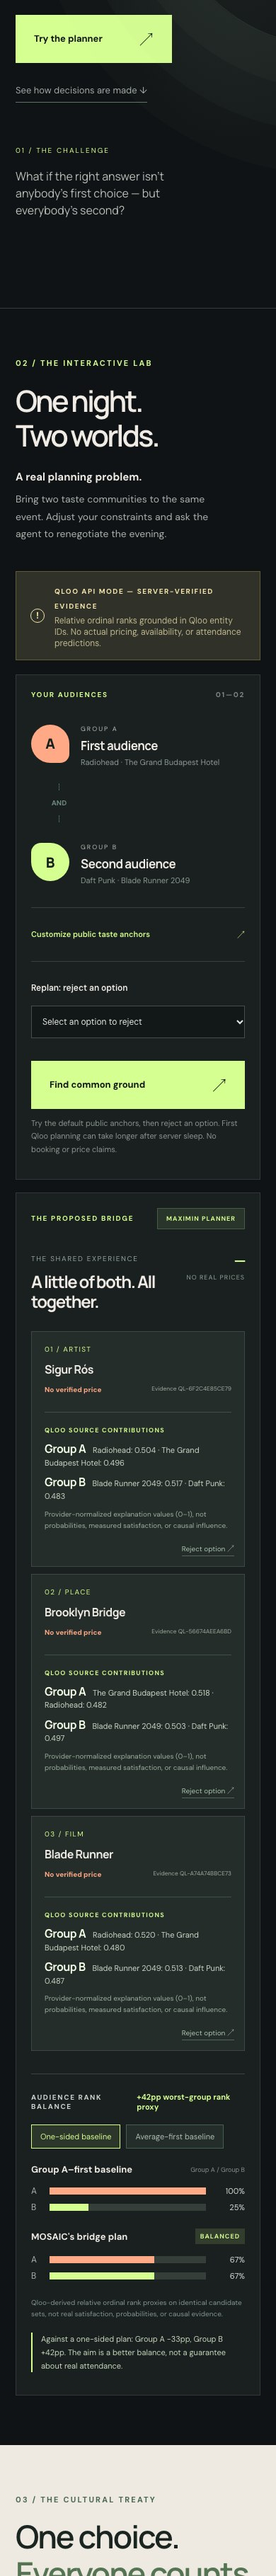
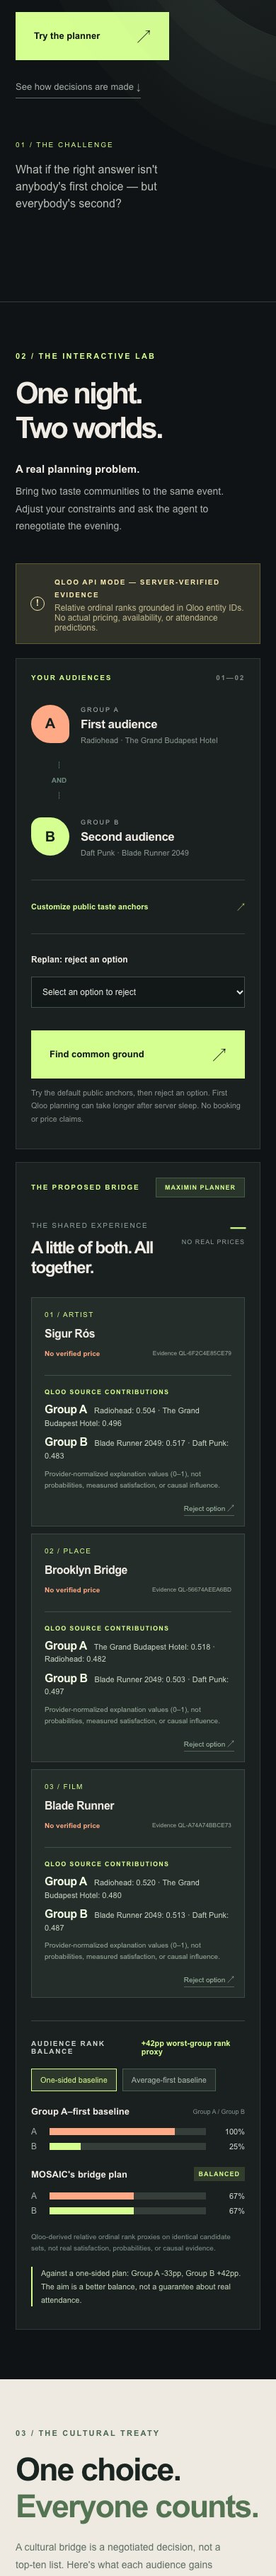
docs(qloo): record verified live judge release and production screenshots

diff --git a/docs/JUDGE_RELEASE_GATE.md b/docs/JUDGE_RELEASE_GATE.md
@@ -2,7 +2,7 @@
 
 **Status:** PUBLIC LIVE TECHNICAL CHECK PASSED · Devpost submission NOT CONFIRMED · Updated 28 October 2026
 **Scope:** Abdullah-m7/qloo-mosaic only
-**Deployed baseline:** `main` commit `b54a94d` (Render); proposed later fixes remain isolated
+**Deployed release:** `main` commit `8a7a297` (Render; live from 28 October 2026, 09:16 UTC)
 **Public live judge URL:** https://mosaic-agent-2026.onrender.com/
 
 ## Verified independently
@@ -24,21 +24,21 @@
 **Verified 28 October 2026 (anonymous public HTTPS):**
 1. `GET /health` returned `status=ok`, `mode=live`, `version=0.3.0`.
 2. `npm run judge:check` passed a public Qloo-backed plan with three ID-grounded categories, provider-tag cultural thread evidence, three no-new-Qloo-call stress checks, cached veto re-planning and bad-input refusal.
-3. The public source is MIT licensed; Render's currently deployed Git commit is `b54a94d`. This check does not prove the full browser experience.
+3. The public source is MIT licensed; Render reports commit `8a7a297` as **Live**. The public browser walkthrough below independently verifies the UI experience.
 
 **Still required before final Devpost submission:**
-1. **Browser baseline and candidate UI paths verified on 390px and 1440px Chrome on 28 Oct**; still verify additional browsers, cold-start/failure states and browser-side credential handling again after any approved production deploy.
+1. **Browser production walkthrough passed on 390px and 1440px Chrome on 28 Oct**; additional browsers, cold-start and all failure states are outside the current verified coverage.
 2. Keep the official live Render URL as the primary judge demo and clearly label the static GitHub Pages preview synthetic.
-3. Synchronize public README, the Devpost text, and the page's initial HTML with live status; distinguish the present public baseline from any unmerged candidate fixes.
-4. Confirm all mandatory Devpost fields and the logged-in submission status. No final submission has been verified.
+3. Keep public README, Devpost description and screenshot captions consistent with the actual deployed release; the final Devpost entry has not been submitted.
+4. Confirm all mandatory Devpost fields and the logged-in submission status. The public deployment is complete, **but final Devpost submission has not occurred**.
 5. Do not merge, redeploy, expose credentials or submit a final Devpost entry without owner approval. No paid plan changes.
 
-## 28 October isolated browser preflight — candidate only
+## 28 October browser preflight and final live production acceptance
 
-- Chrome's real JavaScript executed on the existing **public Render deployment** on 390px mobile and 1440px desktop viewports: three Qloo-backed cards, provenance, and veto re-planning. A missing favicon returned 404; the newly prepared candidate fixes that asset.
-- The **unpublished** worktree `prep/qloo-judge-readiness-20261028` was then tested using its candidate HTML/JS/CSS through a **localhost-only test proxy** that forwarded API requests to the existing public Render service (no API credential in the browser). Mobile and desktop both showed Qloo-live, three artist/place/film cards, cached veto, no horizontal overflow, and zero browser-console failures. The last result was `PASS`.
+- Before the release, Chrome confirmed three Qloo-backed cards and veto re-planning on the older public Render instance. Its missing favicon returned 404; the deployed release now serves it with HTTP 200.
+- The formerly isolated worktree `prep/qloo-judge-readiness-20261028` was first tested through a localhost-only proxy with real Render Qloo API data. After PR #3 merged and Render deployed `8a7a297`, the **actual public live URL** passed Chrome preflight again: mobile 390px and desktop 1440px, three Artist/Place/Film cards, source provenance, veto re-planning, no horizontal overflow or browser errors. Result: `PASS`.
 - Browser checks cover this workflow and viewport sizes, not every device or all failure scenarios. Observed warm-cache candidate test took ~10 seconds; no production latency improvement is claimed. A previous live public browser plan took ~25.5 seconds.
-- Local source and screenshots are not an actual Render deployment. Final Devpost submission remains unconfirmed; owner approval is required before merge, deploy or submit.
+- **Final release gate passed on public HTTPS**: Render reports `live` for `8a7a297`; public `/health` and `/favicon.svg` returned 200; `npm run judge:check` returned `MOSAIC_PUBLIC_RELEASE_PASS`, 3 grounded categories and 3 stress tests, a verified Qloo cultural thread, cached veto and a safe 400 refusal. One first Qloo plan took ~21.0s; this is not a latency guarantee. **Devpost final submission remains unconfirmed and requires owner approval.**
 
 ## Public release check contract
 - GET `/health` responds `status=ok,mode=live`.

diff --git a/README.md b/README.md
@@ -8,7 +8,7 @@
 
 ![MOSAIC Qloo-backed live planning interface, photographed in an isolated judge preflight](docs/mosaic-live-judge-desktop.jpg)
 
-[View the 390px mobile judge walkthrough](docs/mosaic-live-judge-mobile.jpg). These screenshots show the **unpublished candidate UI** connected to the existing public Render Qloo API through a localhost-only test proxy. They do not imply that the candidate branch has been deployed or submitted.
+[View the 390px mobile judge walkthrough](docs/mosaic-live-judge-mobile.jpg). These screenshots were captured from the **public live Render deployment** after commit `8a7a297` was deployed and verified on 28 October 2026. This does not mean the Devpost entry has been submitted.
 
 > **Live data status (October 28, 2026):** The public Render application is now serving evidence-backed Qloo plans. The anonymous `npm run judge:check` release probe passed against the live URL with three grounded categories, a verified provider-tag thread and cached veto renegotiation. The GitHub Pages preview remains intentionally **synthetic**. The technical release pass is not a Devpost submission confirmation.
 
@@ -45,11 +45,11 @@ The preview's example scores, tag availability and planning tokens are invented 
 | Area | Verified status |
 | --- | --- |
 | Responsive interface, working veto/undo and comparison controls | Tested in desktop and mobile Chrome |
-| Optimizer, provenance gates, bounded agent orchestration and cultural treaty | **127/127 baseline checks; 131/131 checks on isolated 28 Oct candidate**; offline tests mock Qloo, plus a separate real public API release probe |
+| Optimizer, provenance gates, bounded agent orchestration and cultural treaty | **127/127 baseline checks; 131/131 checks on the subsequently deployed 28 Oct release candidate**; offline tests mock Qloo, plus a separate real public API release probe |
 | Deterministic algorithmic falsification | 500 **synthetic** scenarios, 429 feasible; see below |
 | Public open-source repo and externally hosted Node app | **Live Qloo mode verified publicly on Render (28 Oct)**; static GitHub Pages remains synthetic |
 | Qloo live API integration and real shared-tag evidence | **Public live release probe PASSED**: three entity-backed categories and a provider-tag-grounded cultural thread |
-| Public Qloo judge experience and Devpost submission | Live technical release check passed; 390px mobile and 1440px desktop browser paths passed locally against real Qloo evidence. **Candidate fixes are not deployed, and final Devpost submission is pending** |
+| Public Qloo judge experience and Devpost submission | The approved candidate is **deployed live** (commit `8a7a297`); anonymous public Qloo judge check and real mobile/desktop Chrome walkthrough both passed on 28 Oct. **Final Devpost submission remains pending** |
 
 ## Reproducible tests
 
@@ -71,7 +71,7 @@ probe against the externally hosted app. On **28 October 2026** it returned
 `MOSAIC_PUBLIC_RELEASE_PASS`: live mode, three genuine Qloo categories,
 provider ID provenance, a grounded cross-category tag, three stress
 counterfactuals, cached veto re-planning and invalid-input rejection.
-The first Qloo plan took approximately 21 seconds in this one measurement.
+The first Qloo plan took approximately 21 seconds in one post-deployment measurement.
 The probe holds no event credential. It does **not** prove mobile usability,
 all browser journeys or final Devpost submission; re-run it after deploying
 any future code change.

diff --git a/docs/DEVPOST_DRAFT.md b/docs/DEVPOST_DRAFT.md
@@ -7,7 +7,7 @@ For the concise, submission-ready English narrative, see [DEVPOST_READY_COPY.md]
 **Team:** Solo entry · Abdullah Almohammedi
 **Source:** https://github.com/Abdullah-m7/qloo-mosaic
 **Judge demo:** https://mosaic-agent-2026.onrender.com/ — live Qloo-backed mode publicly verified on 28 October 2026.
-**Candidate screenshots (not deployed):** [Desktop](mosaic-live-judge-desktop.jpg) · [390px mobile](mosaic-live-judge-mobile.jpg). Captured with unpublished candidate UI using the existing public Render Qloo API; confirm screenshots still match the final deployed commit before using in Devpost.
+**Verified live screenshots:** [Desktop](mosaic-live-judge-desktop.jpg) · [390px mobile](mosaic-live-judge-mobile.jpg). Captured from the production public Render URL after commit `8a7a297` was deployed and passed browser and Qloo release checks on 28 October 2026.
 
 ## How the judges can try it
 
@@ -131,9 +131,7 @@ not claim a measured real-world outcome.
    abstention with no synthetic fallback.
 
 **Submission status:** DRAFT ONLY — not confirmed submitted on Devpost.
-The anonymous public technical release check passed on 28 October 2026.
-Before submitting, validate the actual mobile/desktop browser experience,
-all mandatory Devpost fields and credential-safe network behavior.
+The anonymous public technical release check and desktop/mobile Chrome walkthrough passed on 28 October 2026 against deployed commit `8a7a297`. Before submitting, confirm all mandatory Devpost fields and the final account submission state; no real-world human impact has been measured.
 Owner approval is required for final submission.
 
 ## Intended users and business potential (hypotheses, not customer validation)

diff --git a/docs/JUDGE_DEMO_90S.md b/docs/JUDGE_DEMO_90S.md
@@ -1,4 +1,4 @@
-# MOSAIC — 90-second judge walkthrough (candidate, 28 Oct 2026)
+# MOSAIC — 90-second live judge walkthrough (verified 28 Oct 2026)
 
 **Opening idea:** Most recommendations pick a winner. MOSAIC makes the cultural trade-off visible and auditable.
 
@@ -31,4 +31,4 @@
 
 ## Release note
 
-This walkthrough is prepared on the **isolated candidate branch**, not necessarily the version currently served by Render. Before a final Devpost submission, the owner must approve the deployment and recheck that the live URL and screenshot match that exact deployed code. There is no requirement to record a submission video under the verified contest rules, so this is a useful optional presentation script, not proof of a required artifact.
+This walkthrough now corresponds to the **deployed Render production release** `8a7a297`, verified by a public Qloo release check and Chrome mobile/desktop preflight on 28 October 2026. Before a final Devpost submission, confirm all required form fields and obtain explicit owner approval. There is no requirement to record a submission video under the verified contest rules, so this is a useful optional presentation script, not proof of a required artifact.

diff --git a/docs/DEVPOST_READY_COPY.md b/docs/DEVPOST_READY_COPY.md
@@ -56,4 +56,4 @@ Future validation should measure whether organizers make clearer and faster deci
 
 **Judge quickstart:** Open the **live Render app** (not the separately labeled synthetic GitHub Pages preview). The default public taste anchors are preloaded. Allow the first Qloo plan to finish, then inspect the cards and decision trace, switch the comparison, explore the cultural thread, reject a card and observe the cached replan. The initial Qloo request may take 20–30 seconds or vary with cold starts. No login is required.
 
-**Submission status:** Draft only, not entered on Devpost. This copy should be reviewed against the exact final deployed commit after the owner authorizes any production changes. Do not claim current local-only candidate edits are already published.
+**Submission status:** Draft only, not entered on Devpost. The live Render release `8a7a297` was deployed and browser-verified on 28 October 2026. Review this copy against the exact public experience before submitting; **owner approval for Devpost submission is still required**.
